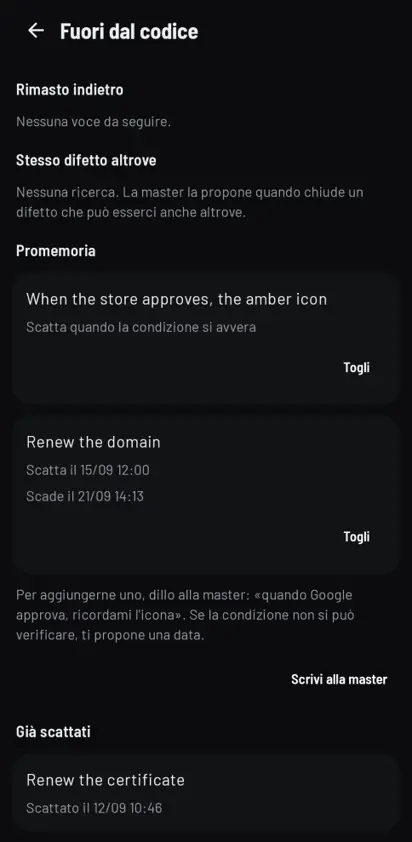
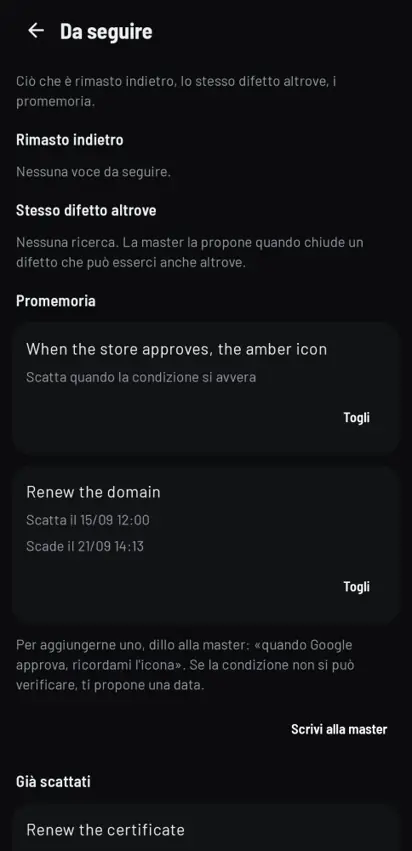
test(phone): Paparazzi goldens from CI: home sections as accordions, the outcome line in form A with the hand for waiting; feature images from them (app-da-decidere-02-11, app-chat-esito-riga-02-11)

diff --git a/web/src/lib/Home.svelte b/web/src/lib/Home.svelte
@@ -493,7 +493,7 @@
   {@const info = key === listSkip && !part ? slotExtra[key] : null}
   {#if info}
     <!-- Una voce nello slot (Franz 01/11 17:44): titolo, barra e numero, sotto una riga; il riepilogo a destra non c'è più. -->
-    <button class="usageslot" class:draggable={!!onHomeOrder} data-sec-head={key} aria-expanded={o.isOpen ?? open[key]} data-testid={testid} onclick={() => { if (dragJustEnded) return; if (o.onclick) o.onclick(); else toggleSec(key) }} onpointerdown={(e) => secDown(key, e)} oncontextmenu={(e) => { if (onHomeOrder) e.preventDefault() }}>
+    <button class="usageslot" class:draggable={!!onHomeOrder} data-sec-head={key} aria-expanded={o.isOpen ?? !!open[key]} data-testid={testid} onclick={() => { if (dragJustEnded) return; if (o.onclick) o.onclick(); else toggleSec(key) }} onpointerdown={(e) => secDown(key, e)} oncontextmenu={(e) => { if (onHomeOrder) e.preventDefault() }}>
       <span class="ustop"><span class="ms">{icon}</span><b>{title}</b>{#if count}<small>{count}</small>{/if}
         {#if info.bar}<span class="usbar">{#each info.bar as [pct, tone]}<i style="width:{pct}%;background:{tone}"></i>{/each}</span>{:else}<span class="sp"></span>{/if}
         {#if info.number}<span class="uspct">{info.number}</span>{/if}<span class="ms tog" class:up={o.isOpen ?? open[key]}>expand_more</span></span>
@@ -504,7 +504,7 @@
     <div class="sec static" data-testid={testid}><span class="ic"><span class="ms">{icon}</span></span><span class="st">{title}</span>{#if count}<small>{count}</small>{/if}</div>
   {:else}
     <!-- L'unica struttura delle voci della home (Franz 31/10 17:04). -->
-    <button class="sec" class:compact={key === listSkip} class:draggable={!!onHomeOrder && !part} data-sec-head={key} aria-expanded={o.nav ? undefined : (o.isOpen ?? open[key])} data-testid={testid} onclick={() => { if (dragJustEnded) return; if (o.onclick) o.onclick(); else toggleSec(key) }} onpointerdown={(e) => secDown(key, e)} oncontextmenu={(e) => { if (onHomeOrder) e.preventDefault() }}>
+    <button class="sec" class:compact={key === listSkip} class:draggable={!!onHomeOrder && !part} data-sec-head={key} aria-expanded={o.nav ? undefined : (o.isOpen ?? !!open[key])} data-testid={testid} onclick={() => { if (dragJustEnded) return; if (o.onclick) o.onclick(); else toggleSec(key) }} onpointerdown={(e) => secDown(key, e)} oncontextmenu={(e) => { if (onHomeOrder) e.preventDefault() }}>
       <span class="ic"><span class="ms">{icon}</span></span><span class="st">{title}</span>{#if count}<small>{count}</small>{/if}
       <span class="sp"></span>{#if o.dot}<b class="sysdot" style:background={o.dot}></b>{/if}{#if right}<span class="rt">{right}</span>{/if}<span class="ms tog" class:up={!o.nav && (o.isOpen ?? open[key])}>{o.nav ? 'chevron_right' : 'expand_more'}</span>
     </button>
